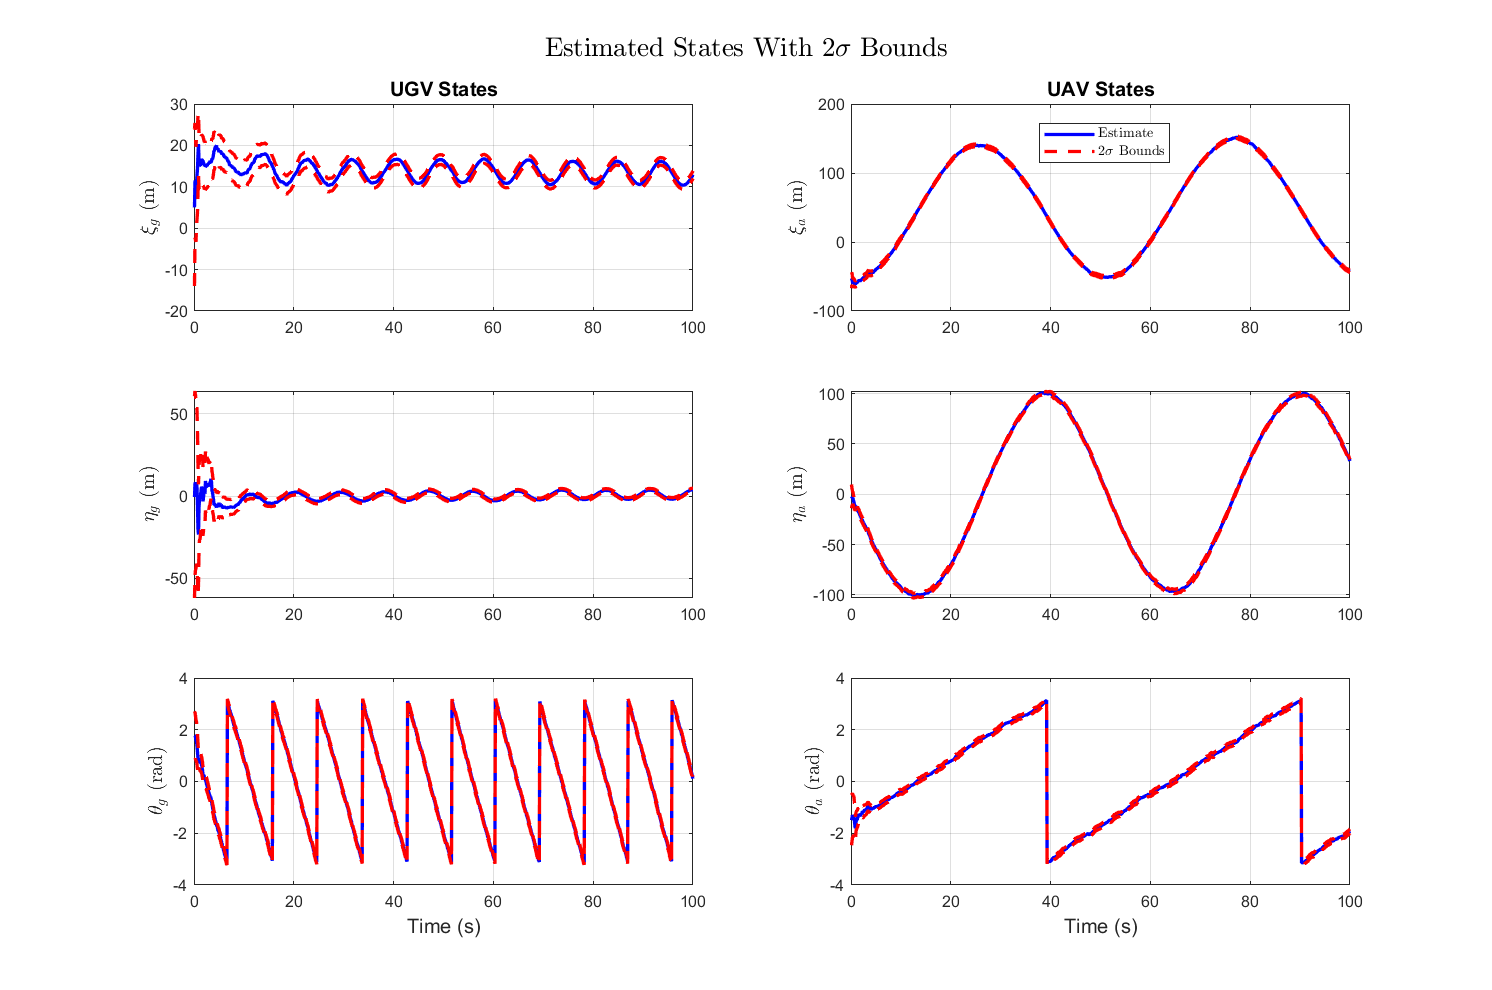
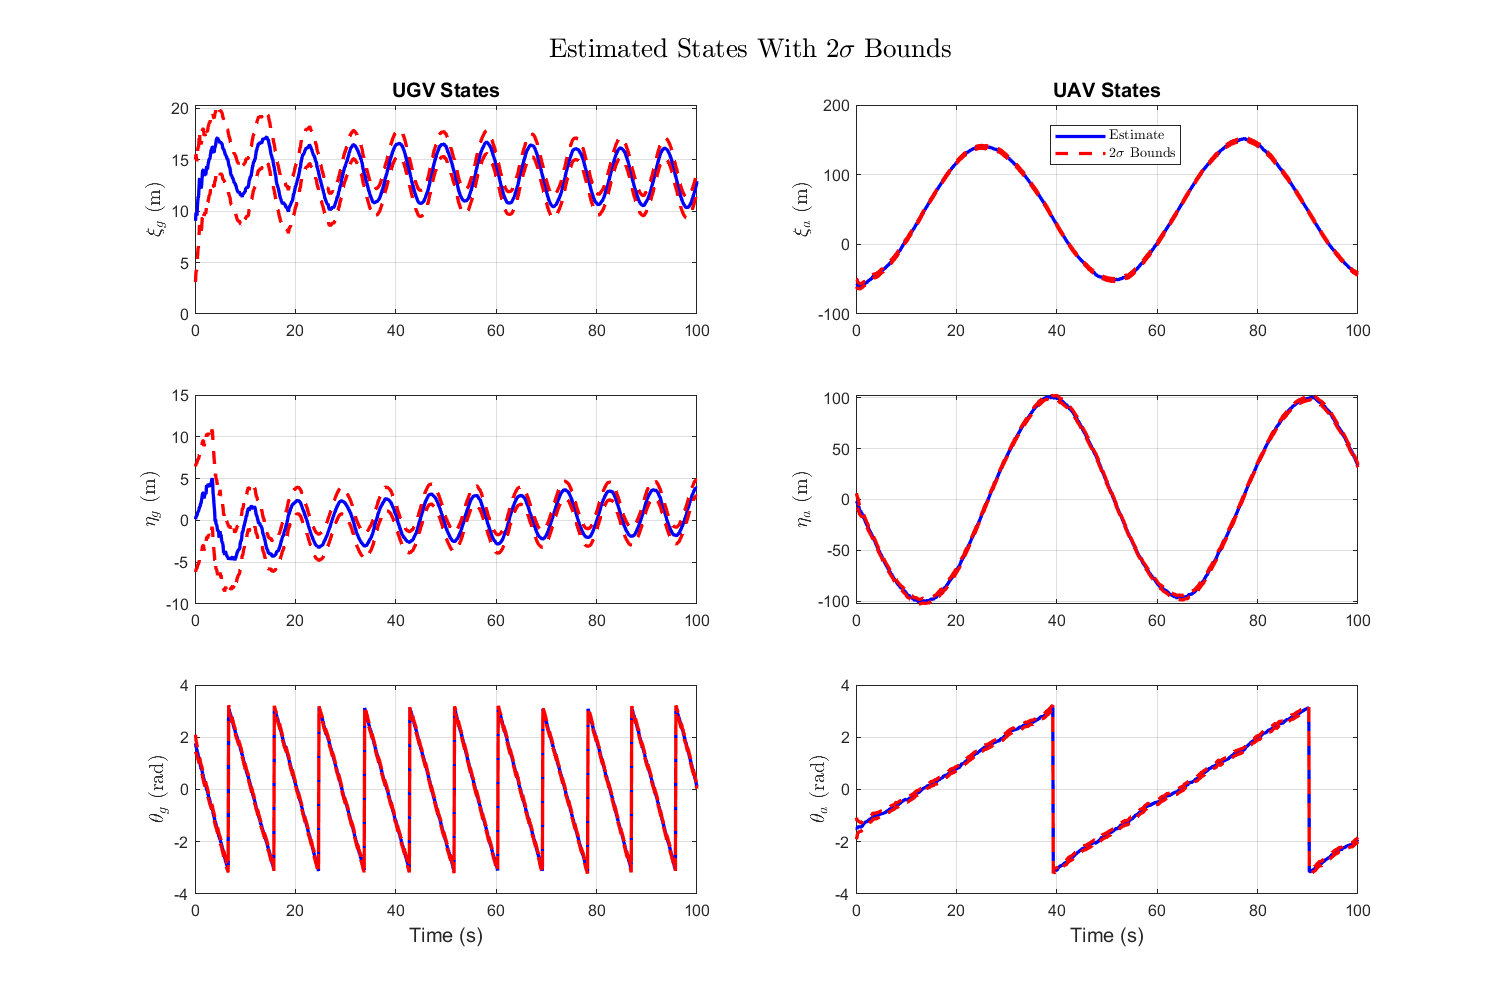
Update EKF

diff --git a/main_EKF.m b/main_EKF.m
@@ -38,19 +38,21 @@ num_measurements = 100;
 x_init = x_noise_mat(1,:);
 %x_init = xhat_final;
 %P_init = diag([1000, 1000, 2*pi, 1000, 1000, 2*pi]);
-P_init = diag([100, 100, 2*pi, 100, 100, 2*pi]);
+% P_init = diag([100, 100, pi, 100, 100, pi]);
+P_init = diag([10, 10, pi/4, 25, 25, pi/4]);
 
 % Unknown init
 % x_init = zeros(1,6);
 % P_init = 1000.*diag([10000, 10000, 6*pi, 10000, 10000, 6*pi]);
 
 % Tune the Q and R matrices
-Q_ekf = 1 .* Q;
-% Q_ekf(4,4) = Q_ekf(4,4) * 1000;
-% Q_ekf(5,5) = Q_ekf(5,5) * 1000;
-% Q_ekf(3,3) = Q_ekf(3,3) * 0.1;
-% Q_ekf(6,6) = Q_ekf(6,6) * 0.1;
-R = R;
+Q_EKF = 1 .*Q;
+Q_EKF(1,1) = 10 .* Q_EKF(1,1);
+Q_EKF(2,2) = 10 .* Q_EKF(2,2);
+Q_EKF(3,3) = 1 .* Q_EKF(3,3);
+Q_EKF(4,4) = 100 .* Q_EKF(4,4);
+Q_EKF(5,5) = 100 .* Q_EKF(5,5);
+Q_EKF(6,6) = 1 .* Q_EKF(6,6);
 
 % Estimated and covariance matrices
 xhat_mat = zeros(length(x_noise_mat(:,1)), 6);
@@ -66,7 +68,7 @@ for i = 1:length(y_noise_mat(:,1))
     y_meas = y_noise_mat(i,:)';
 
     % Kalman update
-    [xhat_curr, P_curr, ~, ~] = EKF(xhat_curr, P_curr, u_nom, y_meas, dt, Q_ekf, R);
+    [xhat_curr, P_curr, ~, ~] = EKF(xhat_curr, P_curr, u_nom, y_meas, dt, Q_EKF, R);
 
     % Store the result in a matrix of the estimated state;
     xhat_mat(i+1, :) = xhat_curr';
@@ -76,110 +78,110 @@ end
 
 %% Estimate the states using the data provided in the data file
 % % Estimated and covariance matrices
-% xhat_mat = zeros(length(x_noise_mat(:,1)), 6);
-% sigma_mat = zeros(length(y_noise_mat(:,1)), 6);
-% 
-% % Loop over the noisy measurements to get the estimates
-% xhat_curr = x_nom;
-% xhat_mat(1,:) = x_nom;
-% P_curr = P_init;
-% sigma_mat(1,:) = sqrt(diag(P_curr))';
-% yData = Data.ydata(:,2:end)';
-% for i = 1:length(y_noise_mat(:,1))
-%     % Get the current measurement
-%     y_meas = yData(i,:)';
-% 
-%     % Kalman update
-%     [xhat_curr, P_curr, ~, ~] = EKF(xhat_curr, P_curr, u_nom, y_meas, dt, Q_ekf, R);
-% 
-%     % Store the result in a matrix of the estimated state;
-%     xhat_mat(i+1, :) = xhat_curr';
-%     sigma_mat(i+1,:) = sqrt(diag(P_curr))';
-% end
-% 
-% 
-% % Plot the states and the 2sigma bounds
-% % Angle wrapping
-% xhat_mat(:,3) = mod(xhat_mat(:,3) + pi, 2*pi) - pi;
-% xhat_mat(:,6) = mod(xhat_mat(:,6) + pi, 2*pi) - pi;
-% 
-% % Enhanced comparison plot
-% figure();
-% plot(xhat_mat(:,1), xhat_mat(:,2), 'LineWidth', 1.5, 'Color', 'r', 'DisplayName', 'UGV')
-% hold on;
-% plot(xhat_mat(:,4), xhat_mat(:,5), '--', 'LineWidth', 1.5, 'Color', 'r', 'DisplayName', 'UAV')
-% xlabel('East Position');
-% ylabel('North Position');
-% title('UGV vs UAV Position');
-% legend('UGV Estimate','UAV Estimate', 'Location', 'best');
-% grid on;
-% axis on;
-% 
-% % Enhanced subplots
-% figure();
-% sgtitle('Estimated States With $2\sigma$ Bounds', 'FontSize', 16, 'FontWeight', 'bold', 'interpreter', 'latex'); % Enhanced title appearance
-% 
-% % UGV East Position
-% subplot(3,2,1);
-% plot(time_tmt(2:end), xhat_mat(2:end,1), '-', 'color', 'b', 'LineWidth', 2);
-% hold on
-% plot(time_tmt(2:end), xhat_mat(2:end,1) + 2.*sigma_mat(2:end,1), '--', 'color', 'r', 'LineWidth', 2);
-% plot(time_tmt(2:end), xhat_mat(2:end,1) - 2.*sigma_mat(2:end,1), '--', 'color', 'r', 'LineWidth', 2);
-% ylabel('$\xi_{g}$ (m)', 'Interpreter', 'latex', 'FontSize', 12);
-% title('UGV States', 'FontSize', 12);
-% grid on;
-% 
-% % UAV East Position
-% subplot(3,2,2);
-% plot(time_tmt(2:end), xhat_mat(2:end,4), '-', 'color', 'b', 'LineWidth', 2);
-% hold on
-% plot(time_tmt(2:end), xhat_mat(2:end,4) + 2.*sigma_mat(2:end,4), '--', 'color', 'r', 'LineWidth', 2);
-% plot(time_tmt(2:end), xhat_mat(2:end,4) - 2.*sigma_mat(2:end,4), '--', 'color', 'r', 'LineWidth', 2);
-% ylabel('$\xi_{a}$ (m)', 'Interpreter', 'latex', 'FontSize', 12);
-% title('UAV States', 'FontSize', 12);
-% legend('Estimate', '$2\sigma$ Bounds', 'interpreter', 'latex', 'location', 'ne')
-% grid on;
-% 
-% % UGV North Position
-% subplot(3,2,3);
-% plot(time_tmt(2:end), xhat_mat(2:end,2), '-', 'color', 'b', 'LineWidth', 2);
-% hold on
-% plot(time_tmt(2:end), xhat_mat(2:end,2) + 2.*sigma_mat(2:end,2), '--', 'color', 'r', 'LineWidth', 2);
-% plot(time_tmt(2:end), xhat_mat(2:end,2) - 2.*sigma_mat(2:end,2), '--', 'color', 'r', 'LineWidth', 2);
-% ylabel('$\eta_{g}$ (m)', 'Interpreter', 'latex', 'FontSize', 12);
-% grid on;
-% 
-% % UAV North Position
-% subplot(3,2,4);
-% plot(time_tmt(2:end), xhat_mat(2:end,5), '-', 'color', 'b', 'LineWidth', 2);
-% hold on
-% plot(time_tmt(2:end), xhat_mat(2:end,5) + 2.*sigma_mat(2:end,5), '--', 'color', 'r', 'LineWidth', 2);
-% plot(time_tmt(2:end), xhat_mat(2:end,5) - 2.*sigma_mat(2:end,5), '--', 'color', 'r', 'LineWidth', 2);
-% ylabel('$\eta_{a}$ (m)', 'Interpreter', 'latex', 'FontSize', 12);
-% grid on;
-% 
-% % UGV Heading Angle
-% subplot(3,2,5);
-% plot(time_tmt(2:end), xhat_mat(2:end,3), '-', 'color', 'b', 'LineWidth', 2);
-% hold on
-% plot(time_tmt(2:end), xhat_mat(2:end,3) + 2.*sigma_mat(2:end,3), '--', 'color', 'r', 'LineWidth', 2);
-% plot(time_tmt(2:end), xhat_mat(2:end,3) - 2.*sigma_mat(2:end,3), '--', 'color', 'r', 'LineWidth', 2);
-% ylabel('$\theta_{g}$ (rad)', 'Interpreter', 'latex', 'FontSize', 12);
-% xlabel('Time (s)', 'FontSize', 12);
-% grid on;
-% 
-% % UAV Heading Angle
-% subplot(3,2,6);
-% plot(time_tmt(2:end), xhat_mat(2:end,6), '-', 'color', 'b', 'LineWidth', 2);
-% hold on
-% plot(time_tmt(2:end), xhat_mat(2:end,6) + 2.*sigma_mat(2:end,6), '--', 'color', 'r', 'LineWidth', 2);
-% plot(time_tmt(2:end), xhat_mat(2:end,6) - 2.*sigma_mat(2:end,6), '--', 'color', 'r', 'LineWidth', 2);
-% ylabel('$\theta_{a}$ (rad)', 'Interpreter', 'latex', 'FontSize', 12);
-% xlabel('Time (s)', 'FontSize', 12);
-% grid on;
-% 
-% % Global adjustments
-% set(gcf, 'Position', [100, 100, 1200, 800]); % Adjust figure size
+xhat_mat = zeros(length(x_noise_mat(:,1)), 6);
+sigma_mat = zeros(length(y_noise_mat(:,1)), 6);
+
+% Loop over the noisy measurements to get the estimates
+xhat_curr = x_nom;
+xhat_mat(1,:) = x_nom;
+P_curr = P_init;
+sigma_mat(1,:) = sqrt(diag(P_curr))';
+yData = Data.ydata(:,2:end)';
+for i = 1:length(y_noise_mat(:,1))
+    % Get the current measurement
+    y_meas = yData(i,:)';
+
+    % Kalman update
+    [xhat_curr, P_curr, ~, ~] = EKF(xhat_curr, P_curr, u_nom, y_meas, dt, Q_EKF, R);
+
+    % Store the result in a matrix of the estimated state;
+    xhat_mat(i+1, :) = xhat_curr';
+    sigma_mat(i+1,:) = sqrt(diag(P_curr))';
+end
+
+
+% Plot the states and the 2sigma bounds
+% Angle wrapping
+xhat_mat(:,3) = mod(xhat_mat(:,3) + pi, 2*pi) - pi;
+xhat_mat(:,6) = mod(xhat_mat(:,6) + pi, 2*pi) - pi;
+
+% Enhanced comparison plot
+figure();
+plot(xhat_mat(:,1), xhat_mat(:,2), 'LineWidth', 1.5, 'Color', 'r', 'DisplayName', 'UGV')
+hold on;
+plot(xhat_mat(:,4), xhat_mat(:,5), '--', 'LineWidth', 1.5, 'Color', 'r', 'DisplayName', 'UAV')
+xlabel('East Position');
+ylabel('North Position');
+title('UGV vs UAV Position');
+legend('UGV Estimate','UAV Estimate', 'Location', 'best');
+grid on;
+axis on;
+
+% Enhanced subplots
+figure();
+sgtitle('Estimated States With $2\sigma$ Bounds', 'FontSize', 16, 'FontWeight', 'bold', 'interpreter', 'latex'); % Enhanced title appearance
+
+% UGV East Position
+subplot(3,2,1);
+plot(time_tmt(2:end), xhat_mat(2:end,1), '-', 'color', 'b', 'LineWidth', 2);
+hold on
+plot(time_tmt(2:end), xhat_mat(2:end,1) + 2.*sigma_mat(2:end,1), '--', 'color', 'r', 'LineWidth', 2);
+plot(time_tmt(2:end), xhat_mat(2:end,1) - 2.*sigma_mat(2:end,1), '--', 'color', 'r', 'LineWidth', 2);
+ylabel('$\xi_{g}$ (m)', 'Interpreter', 'latex', 'FontSize', 12);
+title('UGV States', 'FontSize', 12);
+grid on;
+
+% UAV East Position
+subplot(3,2,2);
+plot(time_tmt(2:end), xhat_mat(2:end,4), '-', 'color', 'b', 'LineWidth', 2);
+hold on
+plot(time_tmt(2:end), xhat_mat(2:end,4) + 2.*sigma_mat(2:end,4), '--', 'color', 'r', 'LineWidth', 2);
+plot(time_tmt(2:end), xhat_mat(2:end,4) - 2.*sigma_mat(2:end,4), '--', 'color', 'r', 'LineWidth', 2);
+ylabel('$\xi_{a}$ (m)', 'Interpreter', 'latex', 'FontSize', 12);
+title('UAV States', 'FontSize', 12);
+legend('Estimate', '$2\sigma$ Bounds', 'interpreter', 'latex', 'location', 'ne')
+grid on;
+
+% UGV North Position
+subplot(3,2,3);
+plot(time_tmt(2:end), xhat_mat(2:end,2), '-', 'color', 'b', 'LineWidth', 2);
+hold on
+plot(time_tmt(2:end), xhat_mat(2:end,2) + 2.*sigma_mat(2:end,2), '--', 'color', 'r', 'LineWidth', 2);
+plot(time_tmt(2:end), xhat_mat(2:end,2) - 2.*sigma_mat(2:end,2), '--', 'color', 'r', 'LineWidth', 2);
+ylabel('$\eta_{g}$ (m)', 'Interpreter', 'latex', 'FontSize', 12);
+grid on;
+
+% UAV North Position
+subplot(3,2,4);
+plot(time_tmt(2:end), xhat_mat(2:end,5), '-', 'color', 'b', 'LineWidth', 2);
+hold on
+plot(time_tmt(2:end), xhat_mat(2:end,5) + 2.*sigma_mat(2:end,5), '--', 'color', 'r', 'LineWidth', 2);
+plot(time_tmt(2:end), xhat_mat(2:end,5) - 2.*sigma_mat(2:end,5), '--', 'color', 'r', 'LineWidth', 2);
+ylabel('$\eta_{a}$ (m)', 'Interpreter', 'latex', 'FontSize', 12);
+grid on;
+
+% UGV Heading Angle
+subplot(3,2,5);
+plot(time_tmt(2:end), xhat_mat(2:end,3), '-', 'color', 'b', 'LineWidth', 2);
+hold on
+plot(time_tmt(2:end), xhat_mat(2:end,3) + 2.*sigma_mat(2:end,3), '--', 'color', 'r', 'LineWidth', 2);
+plot(time_tmt(2:end), xhat_mat(2:end,3) - 2.*sigma_mat(2:end,3), '--', 'color', 'r', 'LineWidth', 2);
+ylabel('$\theta_{g}$ (rad)', 'Interpreter', 'latex', 'FontSize', 12);
+xlabel('Time (s)', 'FontSize', 12);
+grid on;
+
+% UAV Heading Angle
+subplot(3,2,6);
+plot(time_tmt(2:end), xhat_mat(2:end,6), '-', 'color', 'b', 'LineWidth', 2);
+hold on
+plot(time_tmt(2:end), xhat_mat(2:end,6) + 2.*sigma_mat(2:end,6), '--', 'color', 'r', 'LineWidth', 2);
+plot(time_tmt(2:end), xhat_mat(2:end,6) - 2.*sigma_mat(2:end,6), '--', 'color', 'r', 'LineWidth', 2);
+ylabel('$\theta_{a}$ (rad)', 'Interpreter', 'latex', 'FontSize', 12);
+xlabel('Time (s)', 'FontSize', 12);
+grid on;
+
+% Global adjustments
+set(gcf, 'Position', [100, 100, 1200, 800]); % Adjust figure size
 
 
 %% Plot the errors with the two sigma bounds

diff --git a/main_EKF_NEES.m b/main_EKF_NEES.m
@@ -1,5 +1,5 @@
 %% EKF
-clear; clc
+close all; clear; clc
 Data = load('cooplocalization_finalproj_KFdata.mat');
 
 % Ode values
@@ -32,7 +32,8 @@ n_ind = 1000;
 x_init = x_nom';
 %x_init = xhat_final;
 %P_init = diag([100, 100, 2*pi, 100, 100, 2*pi]);
-P_init = diag([100, 100, pi, 100, 100, pi]);
+%P_init = diag([100, 100, pi, 100, 100, pi]);
+P_init = diag([10, 10, pi/4, 25, 25, pi/4]);
 % P_init = diag([1000, 1000, 2*pi, 1000, 1000, 2*pi]);
 
 % Tune the Q matrix
@@ -40,12 +41,12 @@ P_init = diag([100, 100, pi, 100, 100, pi]);
 % Q_EKF(4,4) = 1000 .* Q_EKF(4,4);
 % Q_EKF(5,5) = 1000 .* Q_EKF(5,5);
 Q_EKF = 1 .*Q;
-% Q_EKF(1,1) = 10000 .* Q_EKF(1,1);
-% Q_EKF(2,2) = 10000 .* Q_EKF(2,2);
-% Q_EKF(3,3) = 100 .* Q_EKF(3,3);
-% Q_EKF(4,4) = 10000 .* Q_EKF(4,4);
-% Q_EKF(5,5) = 10000 .* Q_EKF(5,5);
-% Q_EKF(6,6) = 100 .* Q_EKF(6,6);
+Q_EKF(1,1) = 10 .* Q_EKF(1,1);
+Q_EKF(2,2) = 10 .* Q_EKF(2,2);
+Q_EKF(3,3) = 1 .* Q_EKF(3,3);
+Q_EKF(4,4) = 100 .* Q_EKF(4,4);
+Q_EKF(5,5) = 100 .* Q_EKF(5,5);
+Q_EKF(6,6) = 1 .* Q_EKF(6,6);
 
 % Estimated and covariance matrices
 xhat_mat = zeros(length(x_noise_mat(:,1)), 6);
